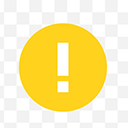
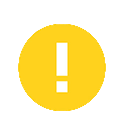
update

diff --git a/popup.html b/popup.html
@@ -34,15 +34,16 @@
         }
 
         #logo {
-            width: 80px;
-            height: 80px;
-            border-radius: 50%;
+            width: 128px;
+            height: 128px;
+            border-radius: 70%;
         }
 
         #title {
             font-size: 20px;
             color: #333;
             margin-bottom: 20px;
+			color: white;
         }
 
         #analyzeButton {
@@ -65,8 +66,8 @@
 </head>
 <body>
     <div id="header">
-        <img id="logo" src="images/icon128.png" alt="Logo">
-        <div id="title">CMv2 Checker</div>
+        <img id="logo" src="images/icon.png" alt="Logo">
+        <div id="title">make your consent worth</div>
     </div>
     <button id="analyzeButton">Analyze</button>
 	 <div id="resultsContainer" class="results"></div>
